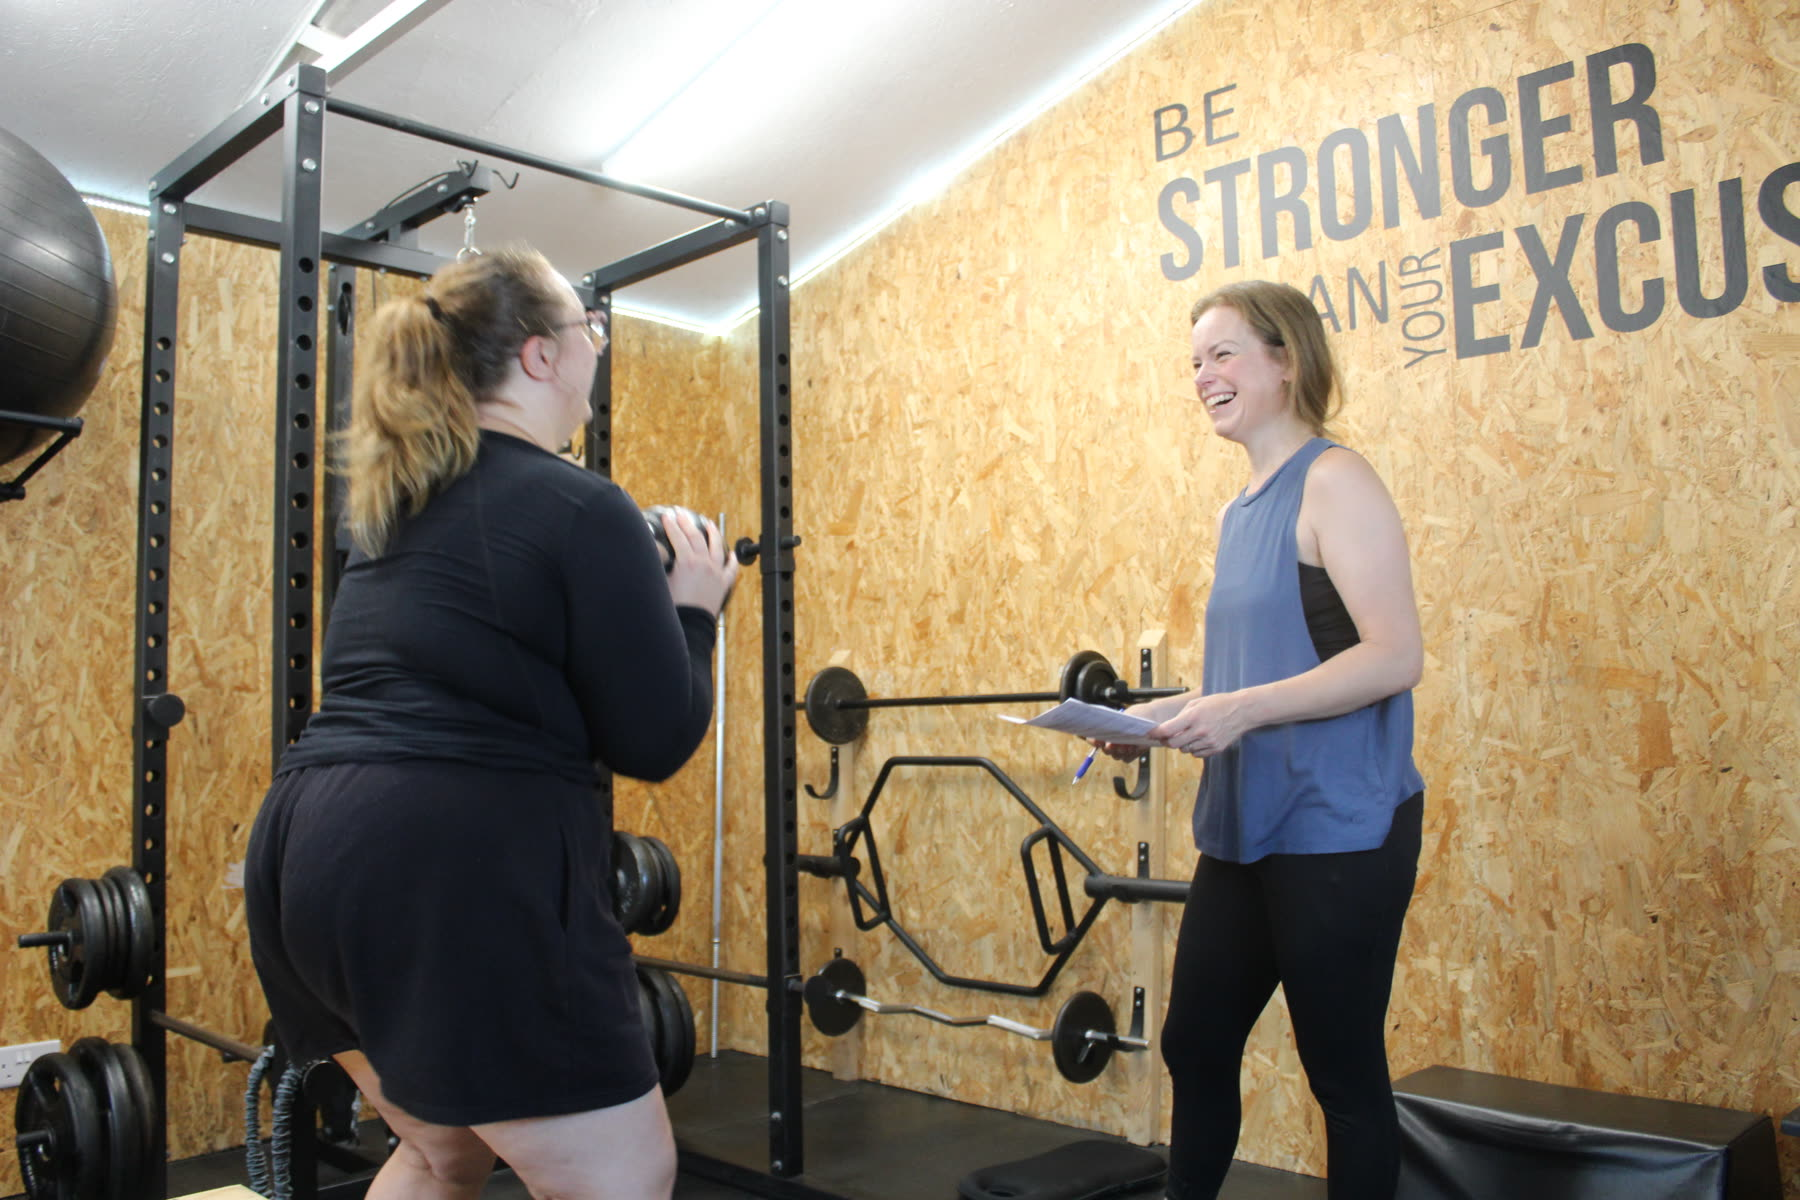
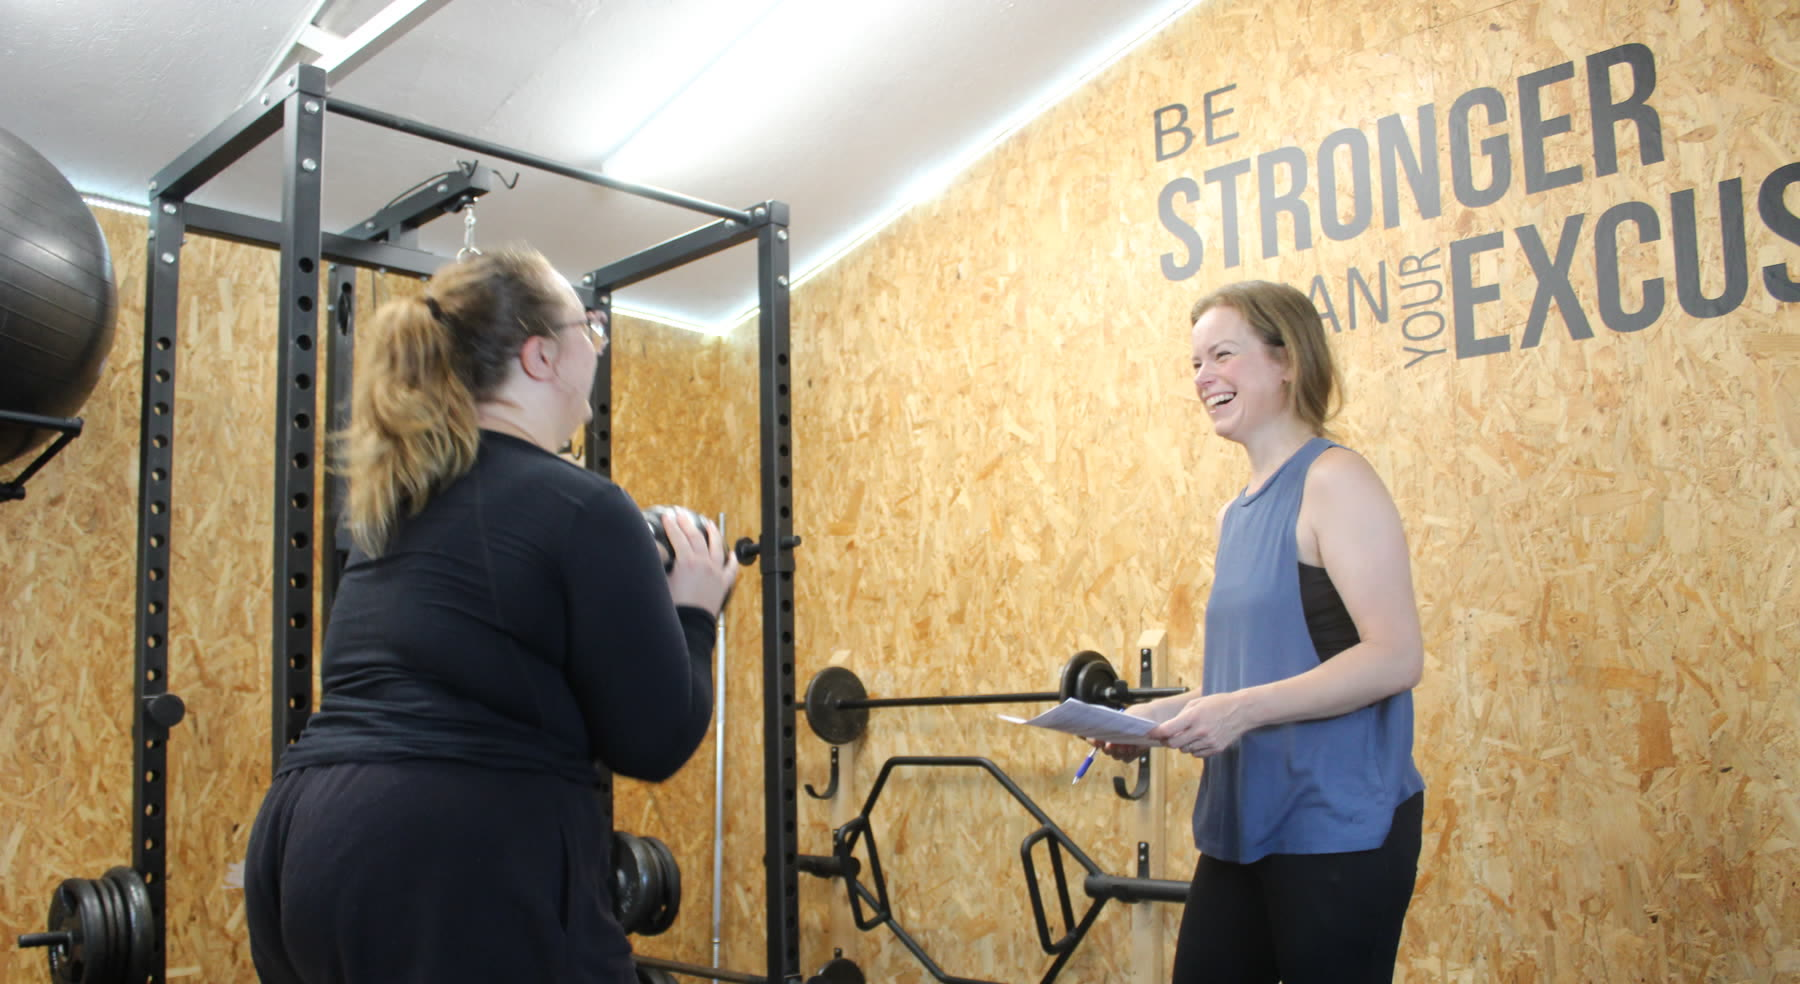
fix: three follow-up UI issues from live review of the photo/placement work
- Home "adapts to how you feel" step image: the client's legs were cut off
  awkwardly mid-thigh. The 4:3 card only crops width (source is already
  wider than the box), so object-position couldn't fix it — re-cropped the
  source file itself, trimming ~18% off the bottom.
- About "A Private Space in Worthing": the two studio photos there were
  pre-rebrand shots (white cabinets + neon sign, a different room layout
  entirely) that had nothing to do with this session's photo work but were
  visibly stale. Replaced with two from the new shoot — the squat rack wall
  and a coaching moment by the rack, both showing the actual current studio.
- ProcessFlow (.ds-flow, shared by the PT "How It Works" and About "Long-Term
  Approach" sections): widened the inter-step gap 28px -> 44px. Columns and
  gaps were already mathematically equal (verified via DOM measurement), but
  each step's paragraph wraps to a different number of lines, and the tight
  gap made that read as a jagged, unbalanced row rather than 4 distinct
  steps. Connector line's `right` offset updated to match (it's `-1 * gap`
  by construction).

DOM-measurement-verified rather than eyeballed — the Browser pane's
screenshot compositor was intermittent this session (worked once, timed out
otherwise), so crops were confirmed by reproducing the real object-fit/
object-position math and spacing was confirmed via getBoundingClientRect on
the live page, not by eye.

diff --git a/app/design-system.css b/app/design-system.css
@@ -223,15 +223,21 @@ a.ds-card { display: block; }
   .ds-hero-content { max-width: none; }
 }
 
-/* ── Process flow diagram ─────────── */
-.ds-flow { display: grid; gap: 28px; position: relative; grid-template-columns: repeat(var(--ds-flow-count, 3), 1fr); }
+/* ── Process flow diagram ───────────
+   gap widened from 28px (2026-08-07): at 4 columns the 271px-wide steps sat
+   nearly flush against each other, and because each step's paragraph wraps
+   to a different number of lines, the tight gap read as a jagged, uneven
+   row rather than 4 clearly separate steps. The connector's `right` offset
+   is `-1 * gap` by construction (it has to reach exactly to the next step's
+   circle) — if gap changes here, that offset must change with it. */
+.ds-flow { display: grid; gap: 44px; position: relative; grid-template-columns: repeat(var(--ds-flow-count, 3), 1fr); }
 .ds-flow-step { position: relative; }
 .ds-flow-num { width: 56px; height: 56px; border-radius: 999px; background: #fff; border: 2px solid var(--color-rose); color: var(--color-rose); display: flex; align-items: center; justify-content: center; font-size: 20px; font-weight: 800; margin-bottom: 18px; position: relative; z-index: 2; }
 .ds-flow-step h4 { font-size: 17px; font-weight: 700; color: var(--color-ink); letter-spacing: -.015em; line-height: 1.2; margin-bottom: 8px; }
 .ds-flow-step p { font-size: 14px; color: var(--color-body); line-height: 1.6; }
 /* horizontal connector line running through the number circles */
 .ds-flow-step:not(:last-child)::after {
-  content: ''; position: absolute; top: 28px; left: 56px; right: -28px; height: 2px;
+  content: ''; position: absolute; top: 28px; left: 56px; right: -44px; height: 2px;
   background: repeating-linear-gradient(90deg, rgba(193,131,159,.4) 0 8px, transparent 8px 16px); z-index: 1;
 }
 .ds-bg-ink .ds-flow-num, .ds-bg-teal .ds-flow-num { background: transparent; border-color: rgba(255,255,255,.6); color: #fff; }

diff --git a/app/about/AboutPageClient.tsx b/app/about/AboutPageClient.tsx
@@ -170,10 +170,10 @@ export default function AboutPageClient({ content = {} }: { content?: Record<str
         />
         <Reveal className="ds-grid-2" stagger={0.12} y={40} start="top 82%" >
           <div className="ds-split-img" style={{ aspectRatio: "16/10" }}>
-            <Image src="/images/studio/studio-rack.jpg" alt="The real Eternal Fitness studio in Worthing — squat rack, free weights, and mirror wall" fill sizes="(max-width: 1000px) 100vw, 50vw" style={{ objectFit: "cover" }} />
+            <Image src="/images/studio-slam-balls-rack.jpg" alt="The real Eternal Fitness studio in Worthing — squat rack, free weights, and mirror wall" fill sizes="(max-width: 1000px) 100vw, 50vw" style={{ objectFit: "cover", objectPosition: "50% 45%" }} />
           </div>
           <div className="ds-split-img" style={{ aspectRatio: "16/10" }}>
-            <Image src="/images/studio/studio-neon.jpg" alt="Inside the Eternal Fitness studio — Consistency is Key" fill sizes="(max-width: 1000px) 100vw, 50vw" style={{ objectFit: "cover" }} />
+            <Image src="/images/studio-rack-consult.jpg" alt="Esther talking a client through their session by the rack in the Eternal Fitness studio" fill sizes="(max-width: 1000px) 100vw, 50vw" style={{ objectFit: "cover", objectPosition: "50% 42%" }} />
           </div>
         </Reveal>
         <Reveal y={40} start="top 82%" style={{ marginTop: 48 }}>
